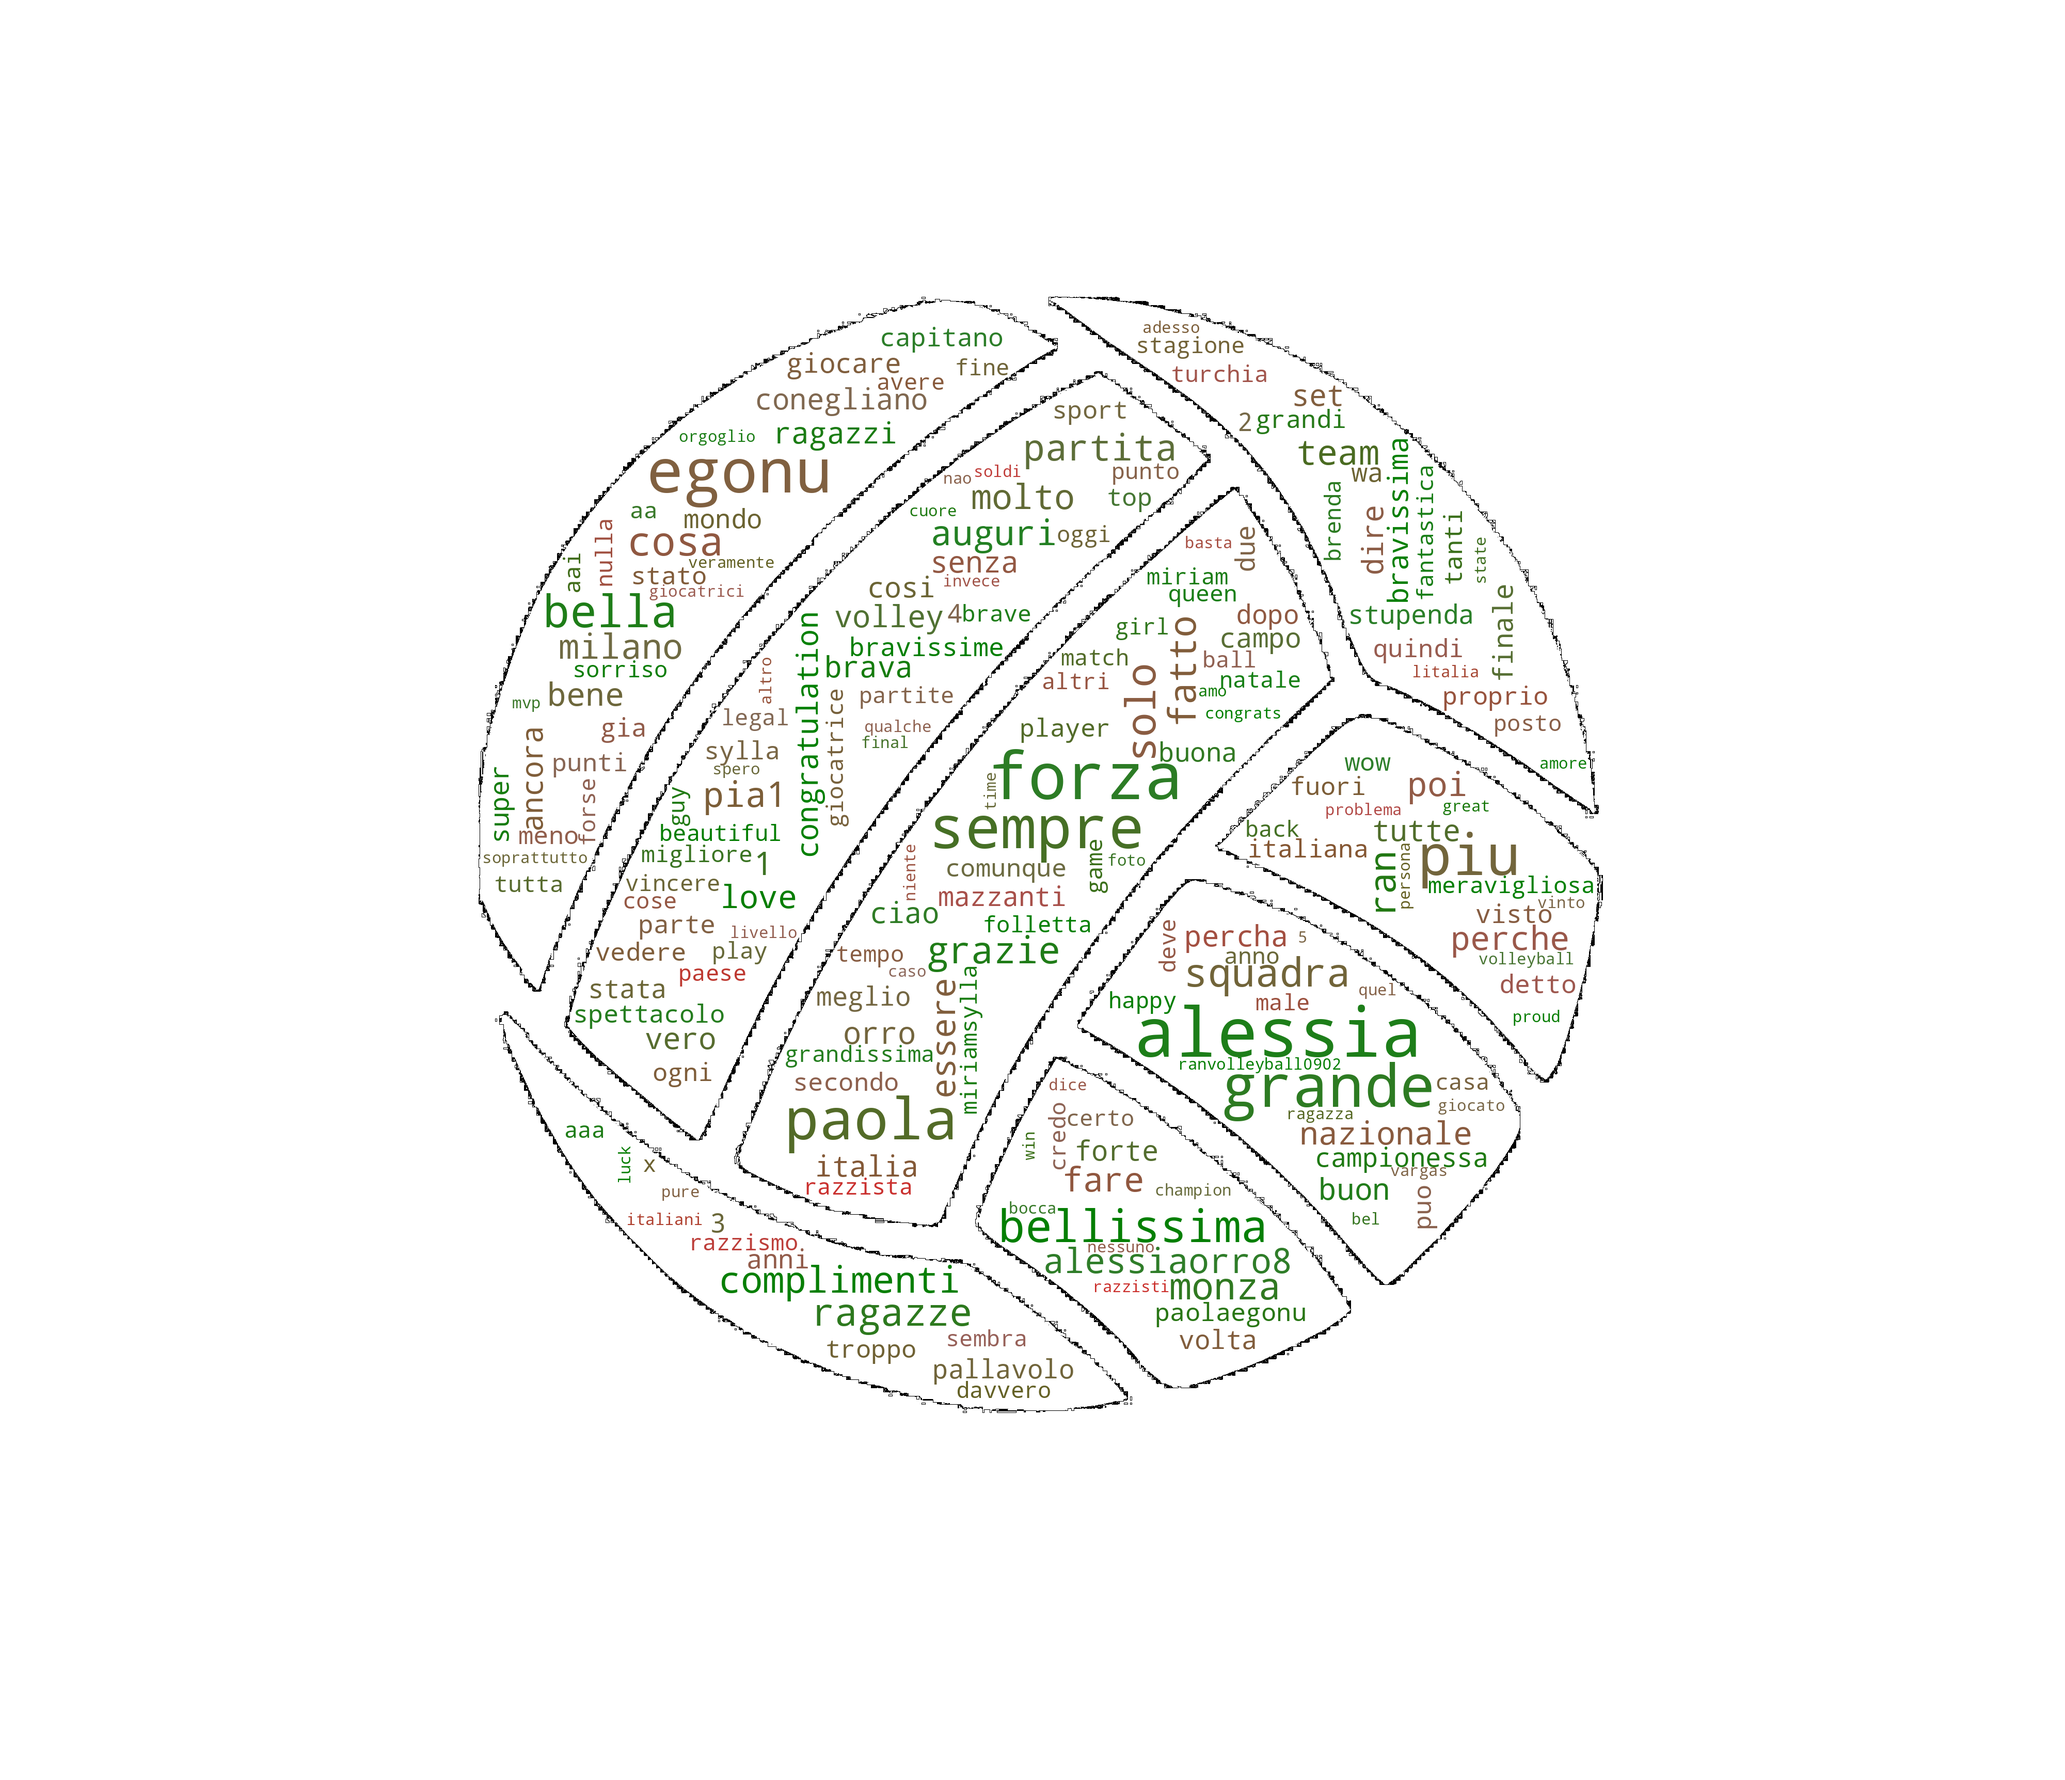
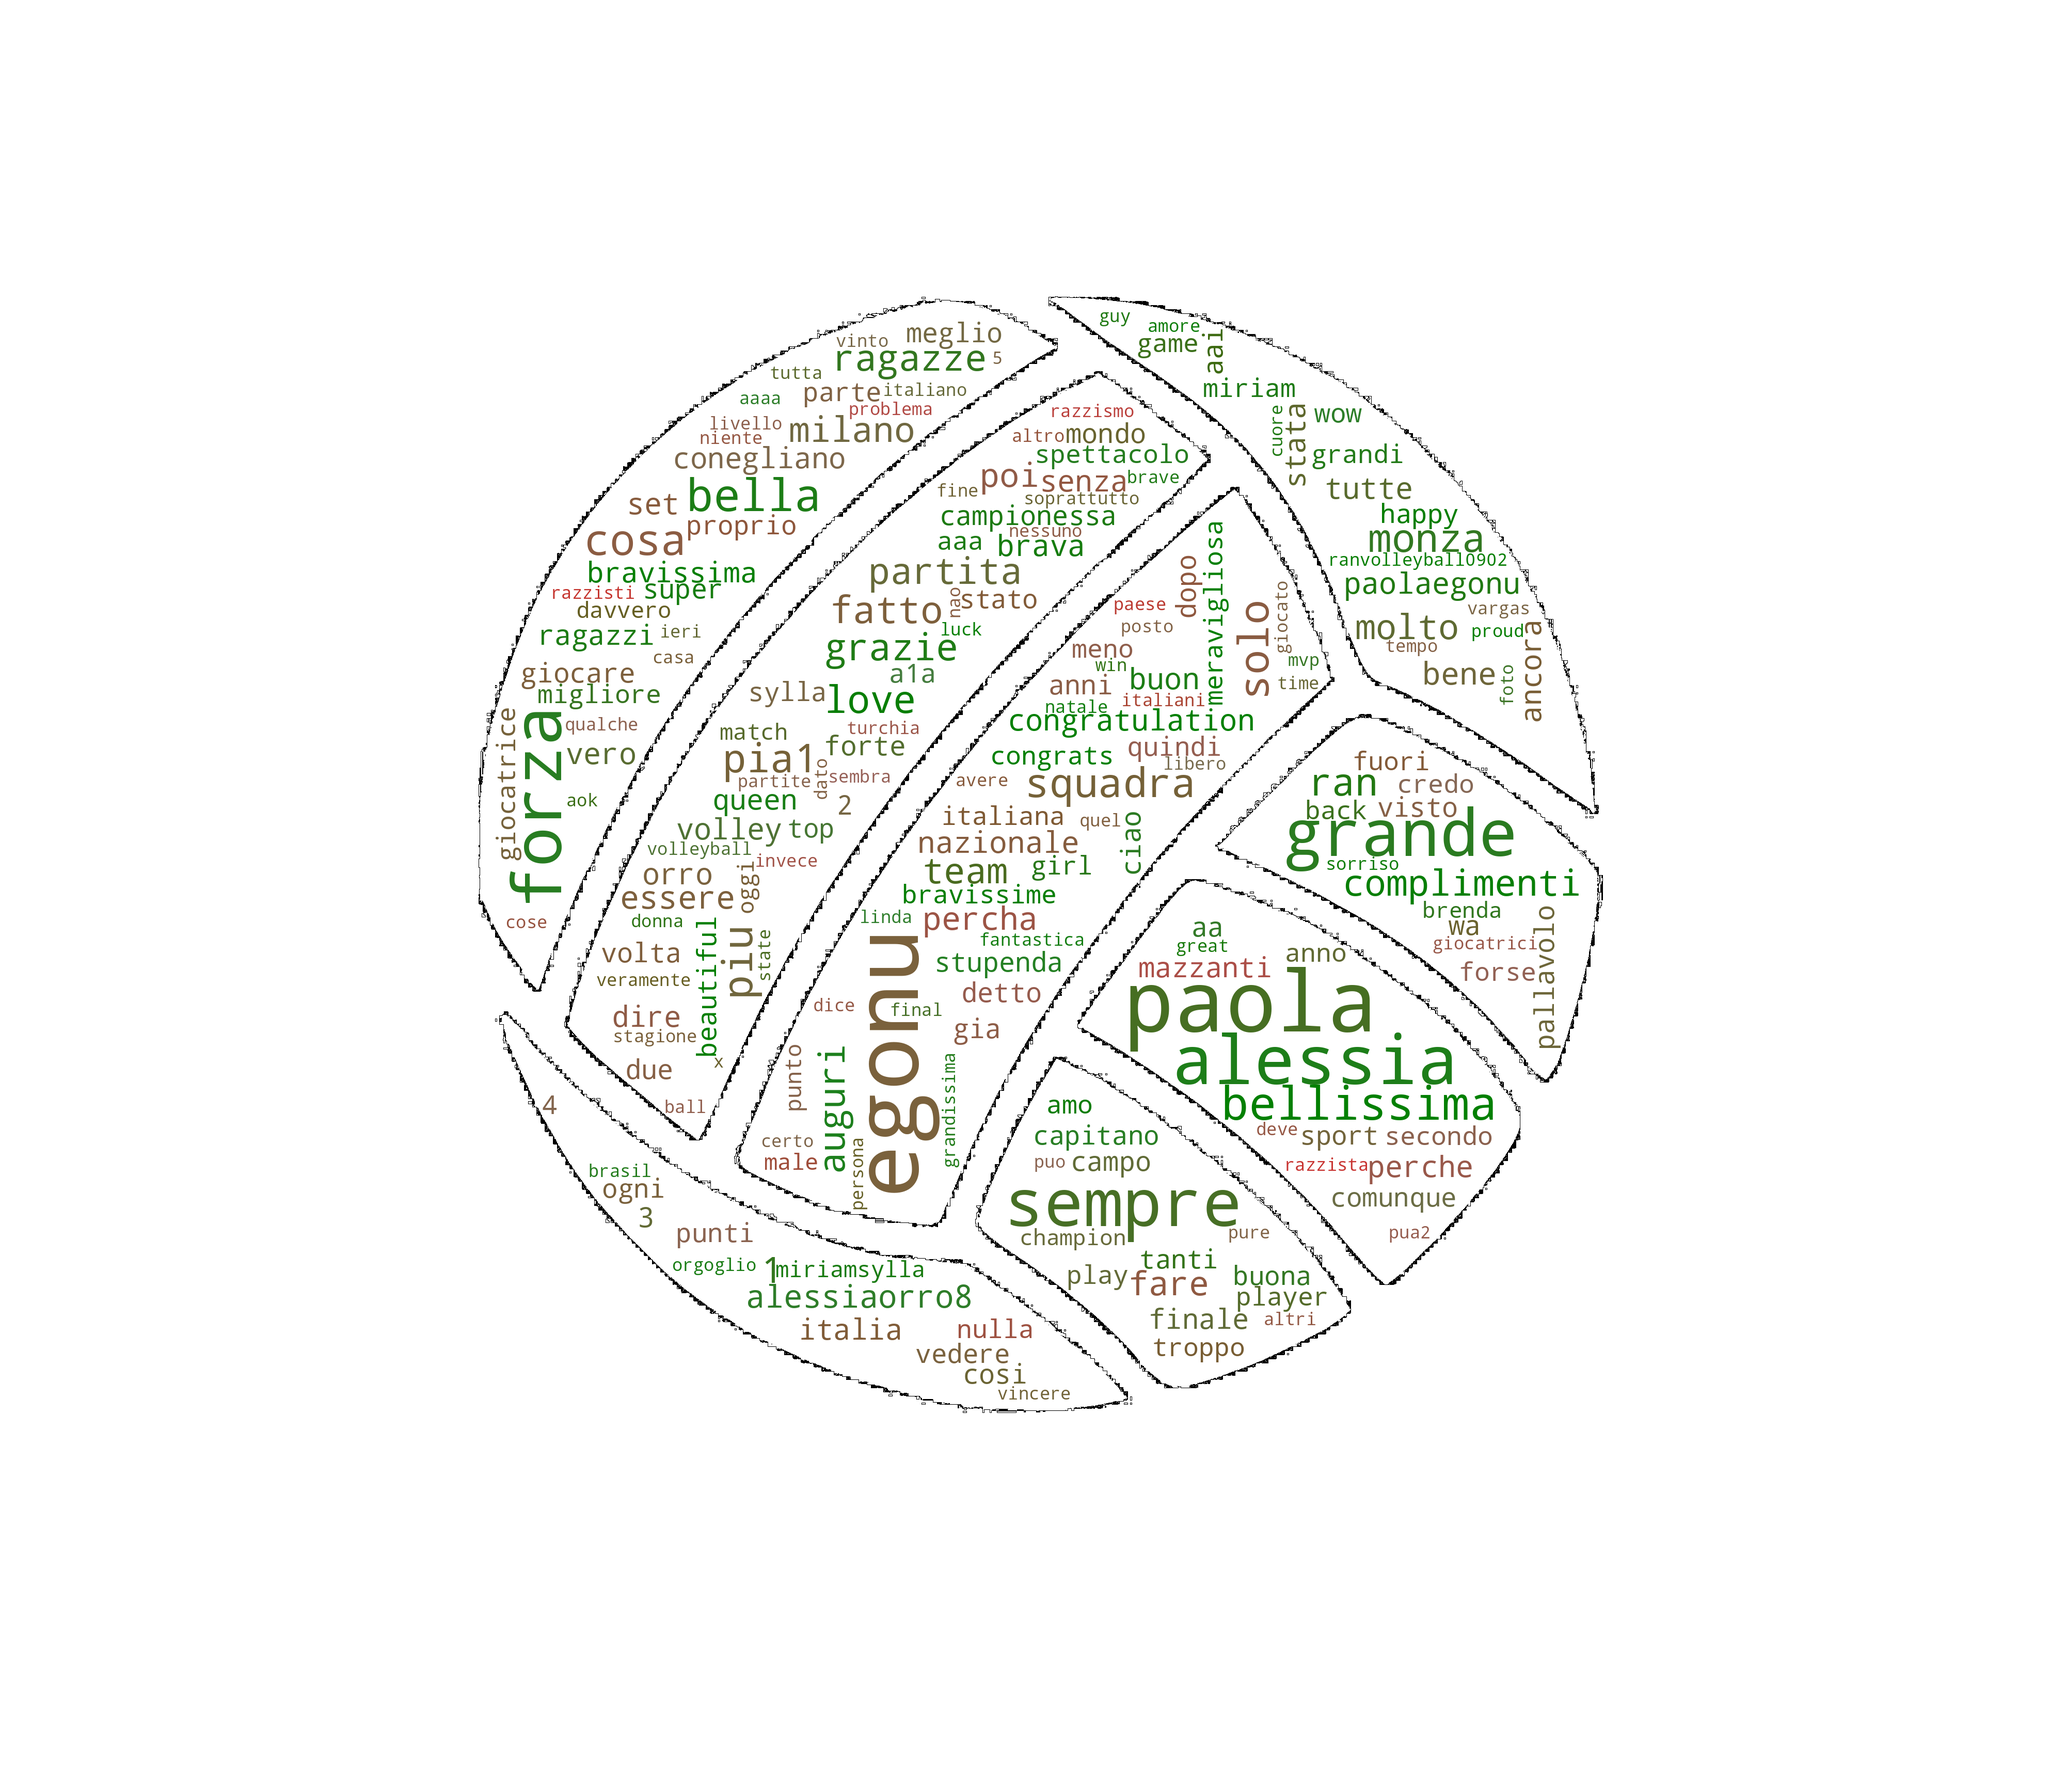
Update word cloud and data filters

diff --git a/get_filters_stats.py b/get_filters_stats.py
@@ -11,6 +11,7 @@
 
 import os
 import json
+from official_statistics.sentiment_total import process_post
 
 # Crawl folders to find the files and posts
 FILTER_FOLDER = "filter"
@@ -18,6 +19,10 @@ FILTER_FOLDER = "filter"
 
 def post_to_hash(post):
     return f"{post.get('taken_at_date')}{post.get('date')}{post.get('title')}{post.get('content')}"
+
+
+def comment_to_hash(post_hash, comment):
+    return f"{post_hash}{comment.get('text')}{comment.get('author')}{comment.get('user')}{comment.get('username')}{comment.get('created_at_utc')}{comment.get('date')}"
 
 
 def remove_duplicates(posts):
@@ -28,11 +33,31 @@ def remove_duplicates(posts):
         if post_to_hash(post) not in set_to_skip:
             new_posts.append(post)
             set_to_skip.add(post_to_hash(post))
+            comments = []
+            for comment in post["comments"]:
+                if comment_to_hash(post_to_hash(post), comment) not in set_to_skip:
+                    comments.append(comment)
+                    set_to_skip.add(comment_to_hash(post_to_hash(post), comment))
+            post["comments"] = comments
     return new_posts
 
 
+def filter_seasons(posts):
+    filtered_posts = []
+    for post in posts:
+        processed = process_post(post)
+        comments = []
+        for comment in processed["comments"]:
+            if comment["anno"] > 2021 or comment["season"] == "2021/2022":
+                comments.append(comment)
+        processed["comments"] = comments
+        filtered_posts.append(processed)
+
+    return filtered_posts
+
+
 def get_elements(folder):
-    platform_to_separator = {"FB": "crawl", "IG": "post", "Web": "output"}
+    platform_list = {"FB", "IG", "Web", "Facebook", "web"}
     elements_to_process = []
 
     platforms_folder = f"{FILTER_FOLDER}"
@@ -41,7 +66,7 @@ def get_elements(folder):
 
     platforms = next(os.walk(platforms_folder))[1]
     for platform in platforms:
-        if platform not in platform_to_separator:
+        if platform not in platform_list:
             continue
 
         files_folder = f"{platforms_folder}/{platform}"
@@ -77,6 +102,15 @@ def get_elements(folder):
     return elements_to_process
 
 
+elements = get_elements("data")
+comments = sum(map(lambda x: len(x["comments"]), elements))
+print("Initial Data:")
+print(" Posts:", len(elements))
+print(" Comments:", comments)
+print(" Total:", len(elements) + comments)
+
+print()
+
 elements = get_elements("output")
 comments = sum(map(lambda x: len(x["comments"]), elements))
 print("Static Filter:")
@@ -95,9 +129,10 @@ print(" Total:", len(elements) + comments)
 
 print()
 
-elements = get_elements("data")
+with open("sentiment_output_with_offensives.json") as f:
+    elements = json.load(f)
 comments = sum(map(lambda x: len(x["comments"]), elements))
-print("Initial Data:")
+print("Final data:")
 print(" Posts:", len(elements))
 print(" Comments:", comments)
 print(" Total:", len(elements) + comments)

diff --git a/word_cloud/word_cloud.py b/word_cloud/word_cloud.py
@@ -14,6 +14,9 @@ import nltk
 from nltk.tokenize.toktok import ToktokTokenizer
 from nltk.corpus import stopwords
 
+nltk.download("stopwords")
+nltk.download("wordnet")
+
 
 def basic_clean(string):
     """
@@ -116,9 +119,26 @@ import json
 from collections import defaultdict, Counter
 import matplotlib.colors as mcolors
 
-with open("sentiment_output.json") as f:
+with open("sentiment_output_with_offensives.json") as f:
     posts = json.load(f)
 
+
+source_to_keyword = {
+    "paolaegonu_post": "egonu",
+    "verovolley_alessiaorro8_post_comments_filtered.json": "orro",
+    "verovolley_post_comments_filtered.json": "verovolley",
+    "verovolley_miriamsylla_post_comments_filtered.json": "sylla",
+    "miriamsylla_post": "sylla",
+    "verovolley_crawl": "verovolley",
+    "verovolley_paolaegonu_post_comments_filtered.json": "egonu",
+}
+
+for post in posts:
+    if post["source"] in source_to_keyword:
+        keyword = source_to_keyword[post["source"]]
+        post["keywords"].append(keyword)
+
+    post["keywords"] = list(set(post["keywords"]))
 
 sentiment_colors = {
     "positive": np.array(mcolors.to_rgb("green")),
@@ -130,11 +150,12 @@ print("cleaning text...", end="\r")
 sentiment_text = defaultdict(str)
 for post in posts:
     for comment in post["comments"]:
-        if comment["sentiment"] not in sentiment_colors:
+        sentiment = comment["sentiment"]
+        if sentiment not in sentiment_colors:
             continue
-        if comment["sentiment"] not in sentiment_text:
-            sentiment_text[comment["sentiment"]] = ""
-        sentiment_text[comment["sentiment"]] += comment["text"] + " "
+        if sentiment not in sentiment_text:
+            sentiment_text[sentiment] = ""
+        sentiment_text[sentiment] += comment["text"] + " "
 for sentiment in sentiment_text:
     sentiment_text[sentiment] = clean(sentiment_text[sentiment])
 
